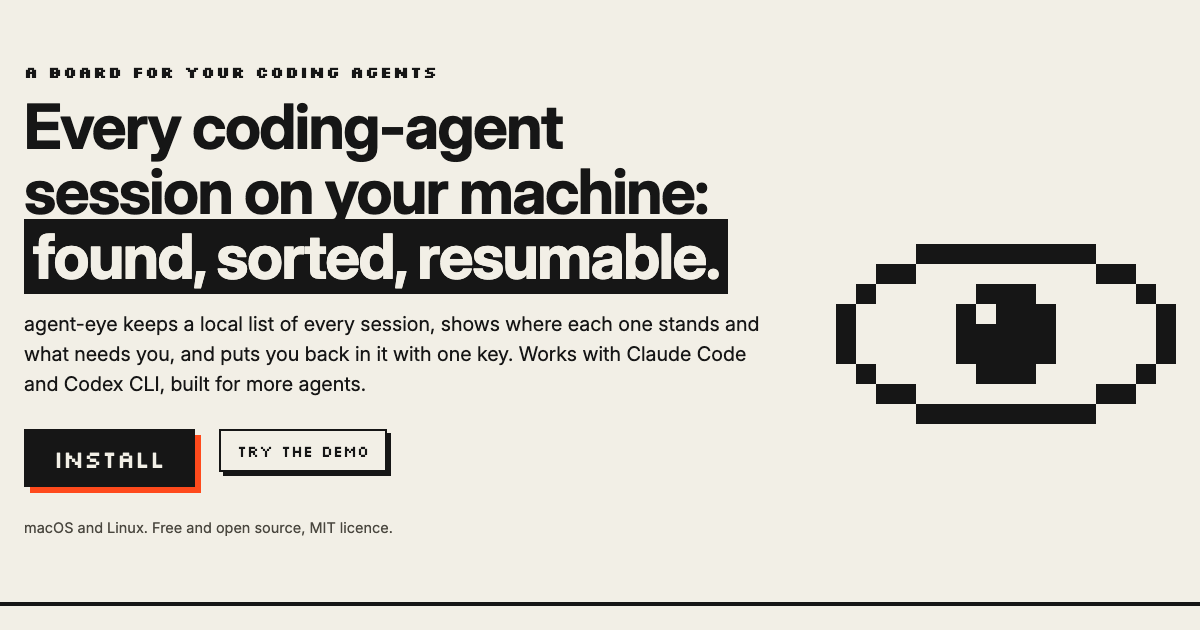
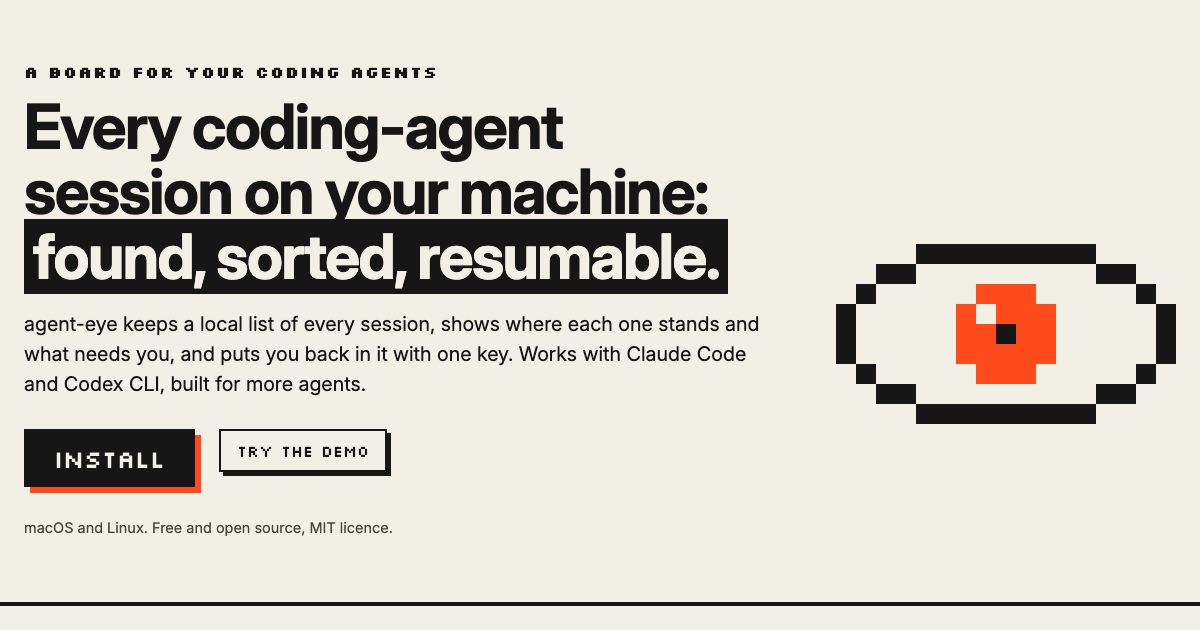
brand: one eye everywhere; the lashes stay on the board
The board header, Welcome screen, site header and hero, README banner and logo,
social image, favicon and og image all draw the same sprite rows now
(face/src/looks/ink/eyeArt.ts): an almond outline, an orange iris, one small dark
pupil and a one-pixel light highlight. make-assets.mjs reads that file, so the
art cannot drift from the board again, and it writes the favicon too (17 x 17,
so a 16 or 32 px icon keeps about one device pixel per art pixel).

The three lashes are drawn by the board only, and only while something needs you;
the site markup no longer carries them. Pointer tracking is unchanged.

Changed region(s): [[0.7708, 0.4524, 0.8942, 0.6333]]

diff --git a/face/src/looks/ink/eyeArt.ts b/face/src/looks/ink/eyeArt.ts
@@ -1,0 +1,70 @@
+// The one eye: the board header, the Welcome screen, the site header and hero, the README banner and
+// logo, the social image and the favicon all draw these rows. This file has no imports, so
+// scripts/make-assets.mjs can read it with Node as it is.
+//
+// An almond outline, an orange iris, a small dark pupil and a one-pixel light highlight. The lashes
+// (RAYS in art.ts) belong to the board alone, and only while something needs you.
+//
+// Characters: '#' outline, 'o' inside the lids (paper), 'v' iris (the accent colour), 'p' pupil,
+// 'h' highlight, '.' clear. The pupil and the highlight are the same two colours on light and dark.
+
+/** The pupil and the highlight, the same in every theme. */
+export const PUPIL = '#161616';
+export const GLINT = '#f2efe6';
+
+/** Open (17 x 9). The inside is 15 wide and 7 tall, so a 5 x 5 iris has a row to spare above and below. */
+export const EYE_OPEN: readonly string[] = [
+  '....#########....',
+  '..##ooooooooo##..',
+  '.#ooooooooooooo#.',
+  '#ooooooooooooooo#',
+  '#ooooooooooooooo#',
+  '#ooooooooooooooo#',
+  '.#ooooooooooooo#.',
+  '..##ooooooooo##..',
+  '....#########....',
+];
+/** Half shut, for a blink. */
+export const EYE_HALF: readonly string[] = [
+  '.................',
+  '.................',
+  '....#########....',
+  '.##ooooooooooo##.',
+  '#ooooooooooooooo#',
+  '.##ooooooooooo##.',
+  '....#########....',
+  '.................',
+  '.................',
+];
+/** Shut. */
+export const EYE_SHUT: readonly string[] = [
+  '.................',
+  '.................',
+  '.................',
+  '...##.......##...',
+  '#################',
+  '...##.......##...',
+  '.................',
+  '.................',
+  '.................',
+];
+export const EYE_FRAMES: readonly (readonly string[])[] = [EYE_OPEN, EYE_HALF, EYE_SHUT];
+
+/**
+ * The iris (5 x 5) with its pupil and highlight. It sits at column 6, row 2 of the open eye, and
+ * moves one pixel at a time to follow the pointer. One dark pixel is the smallest pupil that still
+ * shows when the eye is 16 to 24 pixels wide; the highlight beside it keeps it from looking blank.
+ */
+export const IRIS: readonly string[] = ['.vvv.', 'vhvvv', 'vvpvv', 'vvvvv', '.vvv.'];
+/** Where the iris sits when the eye looks straight ahead. */
+export const IRIS_AT = { x: 6, y: 2 } as const;
+
+/** The open eye with the iris straight ahead, as one sprite. */
+export const EYE_STILL: readonly string[] = EYE_OPEN.map((row, y) =>
+  [...row]
+    .map((ch, x) => {
+      const i = IRIS[y - IRIS_AT.y]?.[x - IRIS_AT.x];
+      return i && i !== '.' ? i : ch;
+    })
+    .join(''),
+);

diff --git a/face/src/looks/ink/art.ts b/face/src/looks/ink/art.ts
@@ -1,8 +1,9 @@
 import { hash, rng, type Rows } from '../../pixel/sprite.ts';
 import type { ColumnId, OutputKind, TopicStatus } from '../../api/types.ts';
+import { GLINT, PUPIL } from './eyeArt.ts';
 
-/** '#' = ink, 'o' = paper (filled inside), 'v' = vermilion, '.' = clear. */
-export const INK = { '#': 'var(--ink)', o: 'var(--paper)', v: 'var(--accent)' } as const;
+/** '#' = ink, 'o' = paper (filled inside), 'v' = vermilion, 'p' = the eye's pupil, 'h' = its highlight, '.' = clear. */
+export const INK = { '#': 'var(--ink)', o: 'var(--paper)', v: 'var(--accent)', p: PUPIL, h: GLINT } as const;
 export const INK_CC = { '#': 'currentColor', o: 'var(--paper)' } as const;
 
 export const ICONS: Record<ColumnId, Rows> = {
@@ -132,45 +133,9 @@ export const OUT_ICON: Record<OutputKind, Rows> = {
 
 export const OUT_TAG: Record<OutputKind, string> = { pr: 'PR', artifact: 'ART', jira: 'JIRA', commit: 'CMT', folder: 'DIR' };
 
-// ---- eye (17 x 9) ----
-const EYE_OPEN: Rows = [
-  '....#########....',
-  '..##ooooooooo##..',
-  '.#ooooooooooooo#.',
-  '#ooooooooooooooo#',
-  '#ooooooooooooooo#',
-  '#ooooooooooooooo#',
-  '.#ooooooooooooo#.',
-  '..##ooooooooo##..',
-  '....#########....',
-];
-const EYE_HALF: Rows = [
-  '.................',
-  '.................',
-  '....#########....',
-  '.##ooooooooooo##.',
-  '#ooooooooooooooo#',
-  '.##ooooooooooo##.',
-  '....#########....',
-  '.................',
-  '.................',
-];
-const EYE_SHUT: Rows = [
-  '.................',
-  '.................',
-  '.................',
-  '...##.......##...',
-  '#################',
-  '...##.......##...',
-  '.................',
-  '.................',
-  '.................',
-];
-export const EYE_FRAMES = [EYE_OPEN, EYE_HALF, EYE_SHUT];
-export const IRIS: Rows = ['.###.', '#o###', '#####', '#####', '.###.'].map((r) => r);
-/** The open eye with its pupil straight ahead, as one sprite: the empty board (the header eye moves). */
-export const EYE_STILL: Rows = EYE_OPEN.map((row, y) => [...row].map((ch, x) => { const p = IRIS[y - 2]?.[x - 6]; return p && p !== '.' ? p : ch; }).join(''));
-export const IRIS_ALERT: Rows = ['.vvv.', 'vovvv', 'vv#vv', 'vvvvv', '.vvv.'];
+// ---- eye: the sprite rows are shared with the site and the README art (eyeArt.ts) ----
+export { EYE_FRAMES, EYE_STILL, IRIS } from './eyeArt.ts';
+/** The three lashes: only the board draws them, and only while something needs you. */
 export const RAYS: Rows = ['..v.....v.....v..', '...v....v....v...'];
 
 /** Pick one char kind from a frame: keeps only `ch`. */

diff --git a/face/src/looks/ink/eyeArt.test.ts b/face/src/looks/ink/eyeArt.test.ts
@@ -1,0 +1,41 @@
+import { describe, expect, it } from 'vitest';
+import { EYE_FRAMES, EYE_OPEN, EYE_STILL, GLINT, IRIS, IRIS_AT, PUPIL } from './eyeArt';
+import { INK, RAYS } from './art';
+
+const count = (rows: readonly string[], ch: string) => rows.join('').split(ch).length - 1;
+
+describe('the one eye', () => {
+  it('is an almond with an orange iris, one small dark pupil and a one-pixel highlight', () => {
+    expect(EYE_FRAMES.every((f) => f.length === 9 && f.every((r) => r.length === 17))).toBe(true);
+    expect(IRIS.every((r) => r.length === 5) && IRIS.length === 5).toBe(true);
+    expect(count(IRIS, 'p')).toBe(1);
+    expect(count(IRIS, 'h')).toBe(1);
+    expect(count(IRIS, 'v')).toBeGreaterThan(15);
+    expect(count(IRIS, '#') + count(IRIS, 'o')).toBe(0);
+    expect(count(EYE_STILL, 'p')).toBe(1);
+    expect(count(EYE_STILL, 'h')).toBe(1);
+  });
+
+  it('keeps the iris inside the lids wherever the pointer sends it', () => {
+    for (let nx = -3; nx <= 3; nx++) {
+      for (let ny = -1; ny <= 1; ny++) {
+        IRIS.forEach((row, y) => [...row].forEach((ch, x) => {
+          if (ch === '.') return;
+          const at = EYE_OPEN[IRIS_AT.y + y + ny]?.[IRIS_AT.x + x + nx];
+          expect(at, `iris pixel ${x},${y} at ${nx},${ny}`).toBe('o');
+        }));
+      }
+    }
+  });
+
+  it('has the same two colours for the pupil and the highlight on a light and a dark page', () => {
+    expect(INK.p).toBe(PUPIL);
+    expect(INK.h).toBe(GLINT);
+    expect(INK.v).toBe('var(--accent)');
+  });
+
+  it('leaves the lashes to the board: they are not part of any eye frame', () => {
+    expect(EYE_FRAMES.flat().join('')).not.toContain('v');
+    expect(RAYS.join('')).toContain('v');
+  });
+});

diff --git a/site/plugin/sprites.ts b/site/plugin/sprites.ts
@@ -1,5 +1,5 @@
 import { rects, size, type Palette, type Rows } from '../../face/src/pixel/sprite.ts';
-import { ARROW, AUTO, EYE_FRAMES, ICONS, INK, INK_CC, IRIS, MARKS, MOON, RAYS, SUN, only } from '../../face/src/looks/ink/art.ts';
+import { ARROW, AUTO, EYE_FRAMES, ICONS, INK, INK_CC, IRIS, MARKS, MOON, SUN, only } from '../../face/src/looks/ink/art.ts';
 
 /** Pixel icons only the site uses. Same alphabet as the board: # ink, o paper, v vermilion. */
 const SITE_ICONS: Record<string, Rows> = {
@@ -93,10 +93,10 @@ export function pix(rows: Rows, pal: Palette = INK, scale = 4, label?: string): 
   return `<svg viewBox="0 0 ${w} ${h}" width="${w * scale}" height="${h * scale}" shape-rendering="crispEdges" ${a11y}>${rects(rows, pal)}</svg>`;
 }
 
-/** The brand eye as the board draws it (see Eye.tsx), ready for trackEye. */
+/** The brand eye as the board draws it (see Eye.tsx), ready for trackEye. No lashes: they are the board's alone. */
 export function eyeMarkup(): string {
   const layers = (ch: string) => EYE_FRAMES.map((f, i) => `<div class="lay f${i}">${pix(only(f, ch))}</div>`).join('');
-  return `<div class="eye" data-f="0" aria-hidden="true"><div class="rays">${pix(RAYS)}</div>${layers('o')}<div class="pclip"><div class="pupil">${pix(IRIS)}</div></div>${layers('#')}</div>`;
+  return `<div class="eye" data-f="0" aria-hidden="true">${layers('o')}<div class="pclip"><div class="pupil">${pix(IRIS)}</div></div>${layers('#')}</div>`;
 }
 
 /** Replaces {{sprite:name}}, {{sprite:name:scale}}, {{sprite:name:scale:currentColor}} and {{eye}}. */

diff --git a/face/src/looks/ink/Eye.tsx b/face/src/looks/ink/Eye.tsx
@@ -1,9 +1,9 @@
 import { useEffect, useRef } from 'preact/hooks';
 import { Pix } from '../../pixel/Pix';
-import { EYE_FRAMES, INK, IRIS, IRIS_ALERT, RAYS, only } from './art';
+import { EYE_FRAMES, INK, IRIS, RAYS, only } from './art';
 import { trackEye } from './eyeTracker';
 
-/** The brand eye: follows the pointer, blinks now and then, and looks at Needs you when something waits (`alert`). */
+/** The brand eye: follows the pointer, blinks now and then, and looks at Needs you when something waits (`alert`), with three lashes above it. */
 export function Eye({ alert }: { alert: boolean }) {
   const ref = useRef<HTMLDivElement>(null);
   const alertRef = useRef(alert);
@@ -13,7 +13,7 @@ export function Eye({ alert }: { alert: boolean }) {
     <div class={`eye${alert ? ' alert' : ''}`} ref={ref} data-f="0" title="eye">
       <div class="rays"><Pix rows={RAYS} pal={INK} scale={4} /></div>
       {EYE_FRAMES.map((f, i) => <div class={`lay f${i}`} key={i}><Pix rows={only(f, 'o')} pal={INK} scale={4} /></div>)}
-      <div class="pclip"><div class="pupil"><Pix rows={alert ? IRIS_ALERT : IRIS} pal={INK} scale={4} /></div></div>
+      <div class="pclip"><div class="pupil"><Pix rows={IRIS} pal={INK} scale={4} /></div></div>
       {EYE_FRAMES.map((f, i) => <div class={`lay f${i}`} key={i}><Pix rows={only(f, '#')} pal={INK} scale={4} /></div>)}
     </div>
   );
